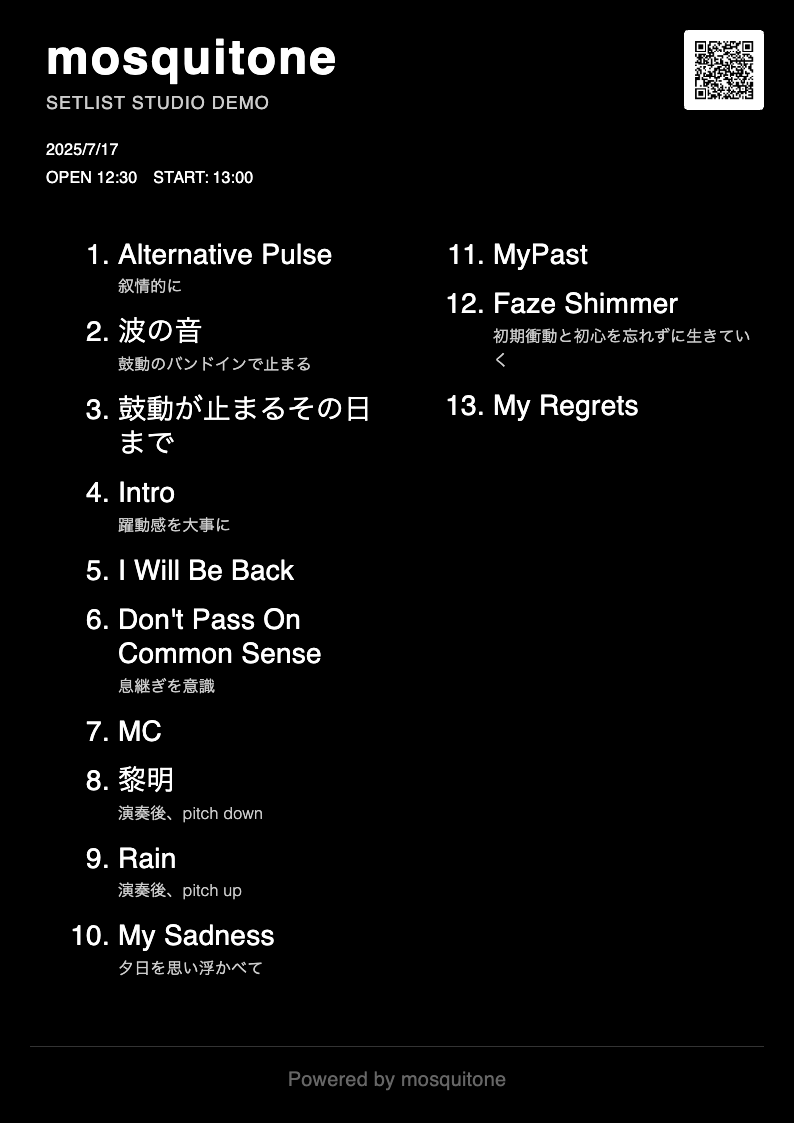
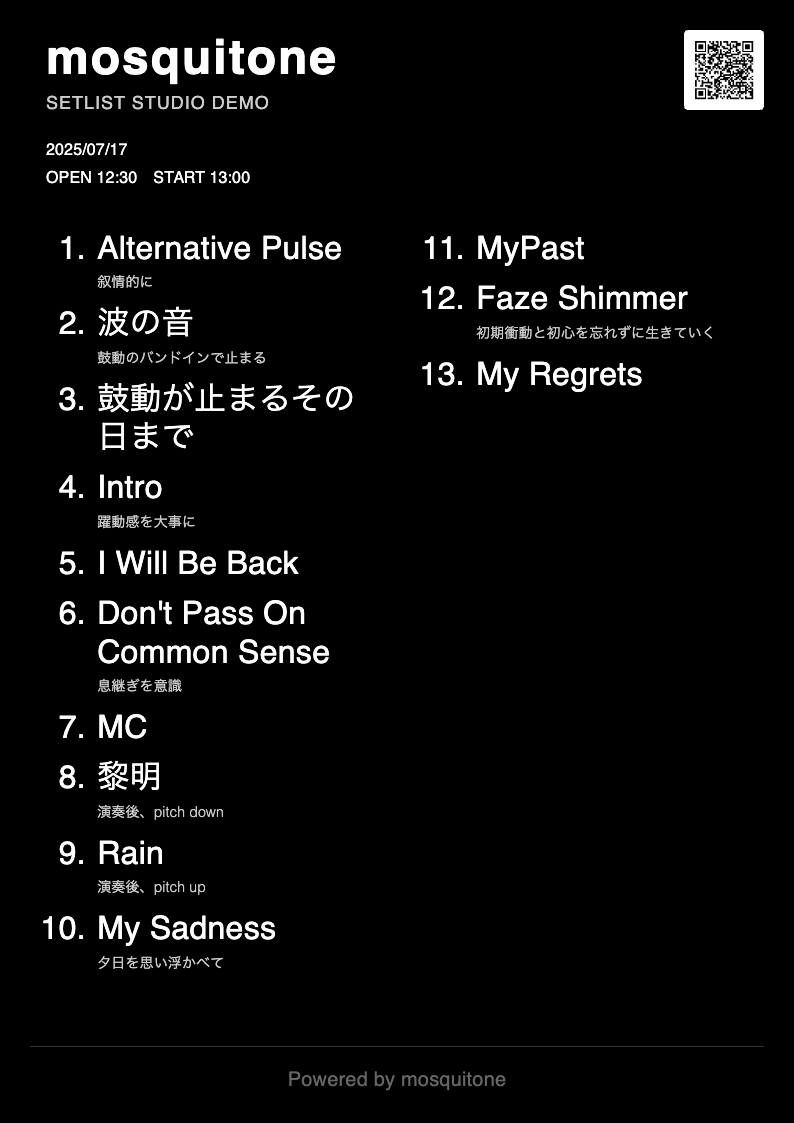
chore: v1.0.0 正式リリース
- バージョンを0.1.0から1.0.0へ更新
- ステータスを「開発中」から「正式リリース」へ変更
- セットリストプレビュー画像を更新

🤖 Generated with [Claude Code](https://claude.ai/code)

diff --git a/README.md b/README.md
@@ -2,8 +2,8 @@
 
 🎵 エモーショナルなセットリスト作成ツール
 
-**バージョン**: 0.1.0 (2025-07)  
-**ステータス**: 開発中
+**バージョン**: 1.0.0 (2025-07)  
+**ステータス**: 正式リリース
 
 ## 概要
 
